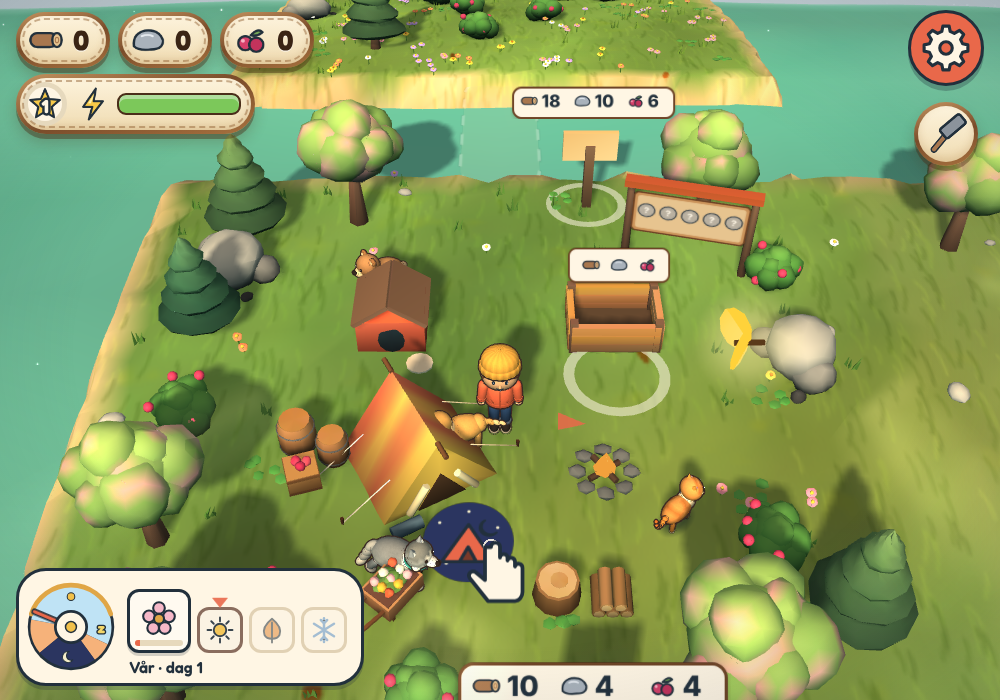
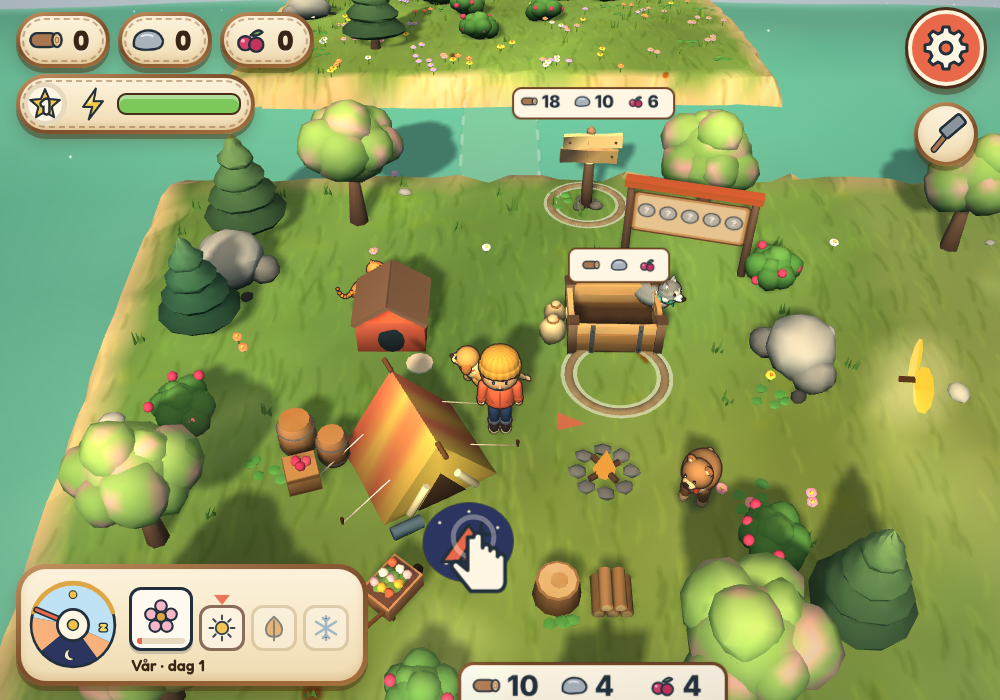
Pips Island: look pass 2 - hand-made signs, rope rings, plank crate, rope bridges, parchment dial
Signs get a round post with a rope wrap, foot stones and a two-plank
board; the pay rings are rope on a pale band; the storage crate has uneven
boards, iron straps, rope handles and sacks; bridges have worn planks,
capped posts and sagging rope rails; the season dial, toast and settings
sheet take the parchment and wood look.

Claude-Session: https://claude.ai/code/session_01K2EAan5PE4LTJZUySd4kfg

diff --git a/isle.html b/isle.html
@@ -2154,6 +2154,11 @@ function isleBubble(t) {
   isleIcon(x, t, 64, 62, 1.7);
   const tex = new T.CanvasTexture(c); isleBub[t] = tex; return tex;
 }
+/* a ring of rope lying on the grass, like the farm's, where Pip stands to pay or to use something */
+function ropeRing(r0, r1) {
+  const R = (r0 + r1) / 2, g = new T.TorusGeometry(R, 0.065, 6, 44); g.scale(1, 1, 0.5);
+  const m = new T.Mesh(fac(g, (cx, cy, cz, i) => tone(Math.floor((Math.atan2(cy, cx) + 3.15) * R * 9) % 2 ? '#fff0c8' : '#e0bf86', i, 0.2), 1490), MAT); m.receiveShadow = true; m.add(new T.Mesh(new T.RingGeometry(r0 - 0.04, r1 + 0.04, 28), ringMat)); return m; /* the pale band under the rope keeps it easy to see */
+}
 function isleSprite(tex, s) { const sp = new T.Sprite(new T.SpriteMaterial({ map: tex, transparent: true, depthWrite: false })); sp.scale.set(s, s, 1); return sp; }
 
 /* ---- things Pip carries: logs, stones and berries ---- */
@@ -2338,7 +2343,7 @@ function makeChest(x, z, tool, idx) {
   const lid = new T.Group(); lid.position.set(0, 0.42, -0.24); g.add(lid);
   q = new T.CylinderGeometry(0.24, 0.24, 0.7, 10, 1, false, 0, Math.PI); q.rotateZ(Math.PI / 2); q.translate(0, 0, 0.24); part(fac(q, (cx, cy, cz, i) => shadeY('#c99158', cy, 0, 0.25, i, 0.5), 1402), lid);
   const sp = isleSprite(isleBubble(tool), 0.9); sp.position.y = 1.5; sp.visible = false; g.add(sp);
-  const ring = new T.Mesh(new T.RingGeometry(0.62, 0.76, 28), ringMat); ring.rotation.x = -Math.PI / 2; ring.position.set(x, 0.035, z + 0.85); sc.add(ring);
+  const ring = ropeRing(0.62, 0.76); ring.rotation.x = -Math.PI / 2; ring.position.set(x, 0.035, z + 0.85); sc.add(ring);
   const c = { x, z, g, lid, sp, ring, tool, idx, open: 0, gone: 0, pop: 0.001 }; g.scale.setScalar(0.01); chests.push(c); return c;
 }
 function chestStep(c, dt) {
@@ -2360,8 +2365,22 @@ const ghostTex = (() => { const c = document.createElement('canvas'); c.width = 
   x.fillStyle = 'rgba(236,211,160,0.35)'; x.beginPath(); x.roundRect(8, 8, 112, 112, 16); x.fill(); x.setLineDash([12, 9]); x.lineWidth = 5; x.strokeStyle = 'rgba(255,246,228,0.95)'; x.stroke();
   return new T.CanvasTexture(c); })();
 const ghostGeo = (() => { const g = new T.PlaneGeometry(GS - 0.5, GS - 0.5, 8, 8); g.rotateX(-Math.PI / 2); return g; })();
-const POST_GEO = (() => { const q = new T.BoxGeometry(0.12, 1.0, 0.12); q.translate(0, 0.5, 0); return fac(q, PAL.trunk, 1500); })();
-const BOARD_GEO = (() => { const q = new T.BoxGeometry(0.7, 0.42, 0.08); q.translate(0, 0.98, 0); return fac(q, '#e7c48f', 1501); })();
+/* a hand-made sign: a round post with a rope wrap and stones at its foot, and a board of two planks nailed on a little crooked */
+const POST_GEO = (() => { const L = [];
+  let q = new T.CylinderGeometry(0.055, 0.075, 1.22, 8, 4); jit(q, 0.008, 1500); q.translate(0, 0.61, 0); L.push(q);
+  q = new T.ConeGeometry(0.06, 0.07, 8); q.translate(0, 1.255, 0); L.push(q);
+  [0.74, 0.79, 0.84].forEach((y) => { const r = new T.TorusGeometry(0.068, 0.016, 5, 10); r.rotateX(Math.PI / 2); r.translate(0, y, 0); L.push(r); });
+  [[0.13, 0.05, 0.085], [-0.1, 0.09, 0.07], [-0.04, -0.12, 0.075], [0.1, -0.08, 0.05]].forEach(([x, z, r], k) => { const b = ico(r, 1, 1503 + k, r * 0.1); b.scale(1.2, 0.7, 1); b.translate(x, r * 0.4, z); L.push(b); });
+  for (let k = 0; k < 4; k++) { const b = new T.ConeGeometry(0.022, 0.2, 3); b.translate(0, 0.1, 0); b.rotateZ((k - 1.5) * 0.3); b.rotateY(k * 1.7); b.translate(-0.15 + k * 0.02, 0, 0.12); L.push(b); }
+  return fac(mergeGeos(L), (cx, cy, cz, i) => { const d = Math.hypot(cx, cz);
+    if (cy < 0.2 && d > 0.085) return cy > 0.11 && cx < -0.08 && cz > 0.06 ? tone('#6fae4c', i, 0.4) : shadeY('#b3b9bf', cy, 0, 0.12, i, 0.4);
+    if (cy > 0.72 && cy < 0.86 && d > 0.06) return tone('#ead9b0', i, 0.3);
+    return shadeY(PAL.trunk, cy, 0, 1.3, i, 0.4); }, 1500); })();
+const BOARD_GEO = (() => { const L = [];
+  [[1.09, 0.02, 0.03], [0.87, -0.015, -0.04]].forEach(([y, x, rz], k) => { const q = new T.BoxGeometry(0.74, 0.2, 0.06, 4, 1, 1); jit(q, 0.008, 1501 + k); q.rotateZ(rz); q.translate(x, y, 0.07); L.push(q);
+    [-0.29, 0.29].forEach((nx) => { const n = new T.CylinderGeometry(0.018, 0.018, 0.02, 6); n.rotateX(Math.PI / 2); n.translate(x + nx, y, 0.105); L.push(n); }); });
+  const b = new T.BoxGeometry(0.07, 0.46, 0.035); b.translate(0, 0.98, 0.03); L.push(b);
+  return fac(mergeGeos(L), (cx, cy, cz, i) => cz > 0.1 ? new T.Color('#4a4038') : cz < 0.05 ? tone('#8a6a4a', i, 0.3) : shadeY(cy > 0.98 ? '#ecca94' : '#e0b87c', cy, 0.7, 1.25, i, 0.25), 1501); })();
 /* a sign's price: a home square costs by how many squares are bought; a bridge or a bonus piece has its own price */
 const signCost = (s) => s.cost;
 const costKinds = (s) => KINDS.filter((t) => signCost(s)[t] > 0);
@@ -2399,7 +2418,7 @@ function signMake(o) {
   g.scale.setScalar(1.3);
   const sp = isleSprite(null, 1); sp.position.y = 2.2; sp.material.opacity = 0; sp.visible = false; g.add(sp);
   const sm = isleSprite(null, 1); sm.position.y = 1.62; g.add(sm);
-  const ring = new T.Mesh(new T.RingGeometry(0.55, 0.7, 28), ringMat); ring.rotation.x = -Math.PI / 2; ring.position.set(o.x, 0.035, o.z); sc.add(ring);
+  const ring = ropeRing(0.55, 0.7); ring.rotation.x = -Math.PI / 2; ring.position.set(o.x, 0.035, o.z); sc.add(ring);
   const ghost = new T.Mesh(o.ghostGeo, new T.MeshBasicMaterial({ map: o.ghostTex, transparent: true, depthWrite: false })); ghost.position.set(o.gx, o.gy == null ? -0.3 : o.gy, o.gz); if (o.gr) ghost.rotation.y = o.gr; sc.add(ghost);
   const sg = Object.assign(o, { g, sp, sm, ring, ghost, fly: {}, bump: 0, seed: signs.length * 1.7, open: 0, payT: 0 }); signs.push(sg); return sg;
 }
@@ -2458,16 +2477,25 @@ function isleBuy(s) {
 
 /* ---- bridges: planks laid one by one from the shore to the next island; once built, its area is Pip's ---- */
 let building = null;
-const PLANK_GEO = (() => { const q = new T.BoxGeometry(1.7, 0.08, 0.38); return fac(q, (cx, cy, cz, i) => tone('#b98a5a', i, 0.7), 1800); })();
-const RAIL_GEO = (() => { const q = new T.BoxGeometry(0.08, 0.08, 1); return fac(q, '#8a6a4e', 1801); })();
-const BPOST_GEO = (() => { const q = new T.CylinderGeometry(0.09, 0.1, 1.5, 7); q.translate(0, -0.35, 0); return fac(q, PAL.trunk, 1802); })();
+/* the bridges: worn planks of three kinds, round posts with caps and a rope wrap, and rope rails that sag between them */
+const PLANK_GEOS = [0, 1, 2].map((k) => { const q = new T.BoxGeometry(1.66 + k * 0.04, 0.08, 0.36 + (k - 1) * 0.02, 6, 1, 1);
+  return fac(q, (cx, cy, cz, i) => { const c = tone(['#c0935f', '#b08454', '#c99f6c'][k], Math.round(cx * 9), 0.25); if (cy < 0) c.multiplyScalar(0.7); if (Math.abs(cx) > 0.74 && cy > 0 && hash(Math.round(cz * 30), k) > 0.5) c.multiplyScalar(0.8); return c; }, 1800 + k); });
+const PLANK_GEO = PLANK_GEOS[0];
+const RAIL_GEO = (() => { const L = []; for (let k = 0; k < 8; k++) { const t0 = k / 8, t1 = (k + 1) / 8, y0 = -0.16 * Math.sin(t0 * Math.PI), y1 = -0.16 * Math.sin(t1 * Math.PI), len = Math.hypot(0.125, y1 - y0);
+    const q = new T.CylinderGeometry(0.024, 0.024, len + 0.012, 5); q.rotateX(Math.PI / 2 - Math.atan2(y1 - y0, 0.125)); q.translate(0, (y0 + y1) / 2, (t0 + t1) / 2); L.push(q); }
+  return fac(mergeGeos(L), (cx, cy, cz, i) => tone(Math.floor(cz * 40) % 2 ? '#ead9b0' : '#cdb07e', i, 0.2), 1801); })(); /* one sagging span of rope, 1 long: scaled per gap */
+const BPOST_GEO = (() => { const L = []; let q = new T.CylinderGeometry(0.075, 0.095, 1.5, 8, 3); jit(q, 0.008, 1802); q.translate(0, -0.35, 0); L.push(q);
+  q = new T.SphereGeometry(0.095, 8, 6); q.scale(1, 0.75, 1); q.translate(0, 0.42, 0); L.push(q);
+  [0.2, 0.25].forEach((y) => { const r = new T.TorusGeometry(0.09, 0.018, 5, 10); r.rotateX(Math.PI / 2); r.translate(0, y, 0); L.push(r); });
+  return fac(mergeGeos(L), (cx, cy, cz, i) => cy > 0.17 && cy < 0.28 && Math.hypot(cx, cz) > 0.08 ? tone('#ead9b0', i, 0.3) : shadeY(PAL.trunk, cy, -1.1, 0.5, i, 0.4), 1802); })();
 function bridgeMesh(A) {
   const B = A.bridge, L = Math.hypot(B.x1 - B.x0, B.z1 - B.z0), ux = (B.x1 - B.x0) / L, uz = (B.z1 - B.z0) / L, g = new T.Group(); g.position.set(B.x0, 0, B.z0); g.rotation.y = Math.atan2(ux, uz); sc.add(g);
   const n = Math.ceil(L / 0.42), planks = [];
-  for (let k = 0; k < n; k++) { const m = new T.Mesh(PLANK_GEO, MAT); m.position.set((hash(k, 3) - 0.5) * 0.06, 0.04, 0.21 + k * 0.42); m.rotation.y = (hash(k, 4) - 0.5) * 0.05; m.receiveShadow = true; m.castShadow = true; g.add(m); planks.push(m); }
+  for (let k = 0; k < n; k++) { const m = new T.Mesh(PLANK_GEOS[Math.floor(hash(k, 7) * 3)], MAT); m.position.set((hash(k, 3) - 0.5) * 0.06, 0.04, 0.21 + k * 0.42); m.rotation.y = (hash(k, 4) - 0.5) * 0.05; m.receiveShadow = true; m.castShadow = true; g.add(m); planks.push(m); }
   const rails = new T.Group(); g.add(rails);
-  for (let k = 0; k <= Math.floor(L / 1.6); k++) { const z = Math.min(L - 0.2, 0.2 + k * 1.6); [-0.85, 0.85].forEach((x) => { const p = new T.Mesh(BPOST_GEO, MAT); p.position.set(x, 0.59, z); p.castShadow = true; rails.add(p); }); }
-  [-0.85, 0.85].forEach((x) => { const r = new T.Mesh(RAIL_GEO, MAT); r.scale.z = L; r.position.set(x, 0.74, L / 2); rails.add(r); });
+  const zs = []; for (let k = 0; k <= Math.floor(L / 1.6); k++) zs.push(Math.min(L - 0.2, 0.2 + k * 1.6));
+  zs.forEach((z) => [-0.85, 0.85].forEach((x) => { const p = new T.Mesh(BPOST_GEO, MAT); p.position.set(x, 0.59, z); p.castShadow = true; rails.add(p); }));
+  for (let k = 0; k + 1 < zs.length; k++) if (zs[k + 1] - zs[k] > 0.2) [-0.85, 0.85].forEach((x) => { const r = new T.Mesh(RAIL_GEO, MAT); r.scale.z = zs[k + 1] - zs[k]; r.position.set(x, 0.82, zs[k]); rails.add(r); });
   return { g, planks, rails };
 }
 function bridgeBuild(A, now) {
@@ -2620,9 +2648,18 @@ const STORE = { x: 1.7, z: -1.5 };
 const storeN = (t) => (state.isle && state.isle.store ? state.isle.store[t] || 0 : 0);
 const storeG = (() => {
   const g = new T.Group(); g.position.set(STORE.x, 0, STORE.z); sc.add(g); const L = [];
-  let q = new T.BoxGeometry(1.3, 0.12, 0.9); q.translate(0, 0.06, 0); L.push(fac(q, '#8a6a4e', 1600));
-  [[0, 0.45, 1.3, 0.1], [0, -0.45, 1.3, 0.1], [0.65, 0, 0.1, 0.9], [-0.65, 0, 0.1, 0.9]].forEach(([x, z, w, d], k) => { for (let r = 0; r < 3; r++) { q = new T.BoxGeometry(w, 0.15, d); q.translate(x, 0.14 + r * 0.17, z); L.push(fac(q, tone('#c99158', k * 3 + r, 0.8), 1601 + k * 3 + r)); } });
-  [[-0.62, -0.42], [0.62, -0.42], [-0.62, 0.42], [0.62, 0.42]].forEach(([x, z], k) => { q = new T.BoxGeometry(0.12, 0.62, 0.12); q.translate(x, 0.31, z); L.push(fac(q, '#7d5e4e', 1620 + k)); });
+  /* a sturdy plank crate: uneven boards with gaps, corner posts with caps, iron straps, rope handles, and two sacks leaning on it */
+  let q = new T.BoxGeometry(1.3, 0.12, 0.9); q.translate(0, 0.06, 0); L.push(fac(q, '#6f5038', 1600));
+  [[0, 0.45, 1.3, 0.08, 0], [0, -0.45, 1.3, 0.08, 0], [0.65, 0, 0.9, 0.08, 1], [-0.65, 0, 0.9, 0.08, 1]].forEach(([x, z, w, d, side], k) => { for (let r = 0; r < 3; r++) {
+    q = new T.BoxGeometry(w - 0.02, 0.15, d, 5, 1, 1); jit(q, 0.008, 1601 + k * 3 + r); if (side) q.rotateY(Math.PI / 2); q.rotateZ((hash(k, r) - 0.5) * 0.03); q.translate(x, 0.15 + r * 0.175, z);
+    const base = ['#cf9a60', '#c08a52', '#d6a56c'][(k + r) % 3]; L.push(fac(q, (cx, cy, cz, i) => shadeY(base, cy, 0, 0.62, Math.round((side ? cz : cx) * 7) + r, 0.3), 1601 + k * 3 + r)); } });
+  [[-0.64, -0.44], [0.64, -0.44], [-0.64, 0.44], [0.64, 0.44]].forEach(([x, z], k) => { q = new T.BoxGeometry(0.13, 0.66, 0.13, 1, 3, 1); jit(q, 0.006, 1620 + k); q.translate(x, 0.33, z); L.push(fac(q, (cx, cy, cz, i) => shadeY('#7d5e4e', cy, 0, 0.7, i, 0.35), 1620 + k));
+    q = new T.BoxGeometry(0.17, 0.04, 0.17); q.translate(x, 0.675, z); L.push(fac(q, '#5a4336', 1624 + k)); });
+  [-0.35, 0.35].forEach((x, k) => { q = new T.BoxGeometry(0.07, 0.56, 0.02); q.translate(x, 0.33, 0.495); L.push(fac(q, '#555c66', 1630 + k)); [0.12, 0.5].forEach((y, j) => { const n = new T.SphereGeometry(0.018, 6, 4); n.translate(x, y, 0.51); L.push(fac(n, '#2f343b', 1632 + k * 2 + j)); }); });
+  [-1, 1].forEach((s2, k) => { q = new T.TorusGeometry(0.1, 0.018, 5, 10, Math.PI); q.rotateZ(Math.PI); q.rotateY(Math.PI / 2); q.translate(s2 * 0.7, 0.44, 0); L.push(fac(q, '#ead9b0', 1640 + k)); });
+  [[-0.92, 0.2, 0.2], [-0.86, -0.2, 0.17]].forEach(([x, z, r], k) => { q = ico(r, 2, 1650 + k, 0.012); q.scale(1, 1.25, 0.9); q.translate(x, r * 1.1, z); L.push(fac(q, (cx, cy, cz, i) => shadeY(k ? '#d9c39a' : '#e3d0a8', cy, 0, 0.5, i, 0.2), 1650 + k));
+    q = new T.TorusGeometry(r * 0.42, 0.016, 5, 10); q.rotateX(Math.PI / 2); q.translate(x, r * 2.2, z); L.push(fac(q, '#a8743f', 1654 + k)); q = ico(r * 0.4, 1, 1656 + k); q.scale(1, 0.7, 1); q.translate(x, r * 2.35, z); L.push(fac(q, '#d9c39a', 1656 + k)); });
+  L.forEach((g2, k) => { if (g2.index) L[k] = g2.toNonIndexed(); });
   merged(L, MAT, g);
   /* what is inside: a few logs, stones and berries show once there are some */
   const fill = { log: [], stone: [], berry: [] };
@@ -2632,7 +2669,7 @@ const storeG = (() => {
   const c = document.createElement('canvas'); c.width = 256; c.height = 96; const x = c.getContext('2d'); paperBox(x, 256, 96);
   ['log', 'stone', 'berry'].forEach((t, k) => isleIcon(x, t, 60 + k * 68, 46, 1.0));
   const sp = isleSprite(new T.CanvasTexture(c), 1); sp.scale.set(1.5, 0.56, 1); sp.position.set(0, 1.35, 0); g.add(sp);
-  const ring = new T.Mesh(new T.RingGeometry(0.62, 0.78, 28), ringMat); ring.rotation.x = -Math.PI / 2; ring.position.set(STORE.x, 0.035, STORE.z + 0.95); sc.add(ring);
+  const ring = ropeRing(0.62, 0.78); ring.rotation.x = -Math.PI / 2; ring.position.set(STORE.x, 0.035, STORE.z + 0.95); sc.add(ring);
   return { g, fill, sp };
 })();
 let storeT = 0;
@@ -5981,7 +6018,7 @@ function forgeBuild(anim) {
   const bed = new T.Mesh(new T.BoxGeometry(0.62, 0.05, 0.5), new T.MeshBasicMaterial({ color: '#ff7a2a' })); bed.position.set(0.25, 0.92, 0.08); g.add(bed);
   forgeGlow = new T.Sprite(new T.SpriteMaterial({ map: softTex(32, 32), color: '#ffb060', transparent: true, opacity: 0.5, depthWrite: false })); forgeGlow.position.set(0.22, 0.75, 0.7); forgeGlow.scale.set(1.5, 1.2, 1); g.add(forgeGlow);
   forgeG = g;
-  anvilRing = new T.Mesh(new T.RingGeometry(0.45, 0.6, 28), ringMat); anvilRing.rotation.x = -Math.PI / 2; anvilRing.position.set(ANVIL_RING.x, 0.035, ANVIL_RING.z); sc.add(anvilRing);
+  anvilRing = ropeRing(0.45, 0.6); anvilRing.rotation.x = -Math.PI / 2; anvilRing.position.set(ANVIL_RING.x, 0.035, ANVIL_RING.z); sc.add(anvilRing);
   if (anim) { g.scale.setScalar(0.01); bldPop = { g, t: 0 }; burst(FORGE.x, 1.2, FORGE.z, 12); burst(ANVIL.x, 0.9, ANVIL.z, 6); }
 }
 
@@ -6156,7 +6193,7 @@ function ovenBuild(anim) {
   /* finished pies wait on the front of the base and on the shelf (up to five shown) */
   [[-0.32, 0.51, 0.42], [0.32, 0.51, 0.42], [-1.08, 0.64, 0.15], [-0.84, 0.64, 0.15], [0.0, 0.51, 0.47]].forEach(([x, y, z]) => { const m = new T.Mesh(PIE_GEO, MAT); m.position.set(x, y, z); m.visible = false; g.add(m); ovenPies.push(m); });
   ovenG = g;
-  ovenRing = new T.Mesh(new T.RingGeometry(0.45, 0.6, 28), ringMat); ovenRing.rotation.x = -Math.PI / 2; ovenRing.position.set(OVEN_RING.x, 0.035, OVEN_RING.z); sc.add(ovenRing);
+  ovenRing = ropeRing(0.45, 0.6); ovenRing.rotation.x = -Math.PI / 2; ovenRing.position.set(OVEN_RING.x, 0.035, OVEN_RING.z); sc.add(ovenRing);
   if (anim) { g.scale.setScalar(0.01); bldPop = { g, t: 0 }; burst(OVEN.x, 1.2, OVEN.z, 12); }
 }
 
@@ -6745,6 +6782,16 @@ const LOOK = { solid: [] };
 function lookStep() {
   if (enSleep) return; const p = pip.position;
   LOOK.solid.forEach(([x, z, r]) => { const dx = p.x - x, dz = p.z - z, d = Math.hypot(dx, dz), R = r + 0.22; if (d < R && d > 1e-4) { p.x = x + dx / d * R; p.z = z + dz / d * R; } });
+}
+/* the season dial, the toast and the settings sheet in the same parchment and wood as the counters */
+{
+  const WOOD = 'linear-gradient(165deg,#c4935f,#7a4c2a 50%,#a8723f) border-box', st = document.createElement('style');
+  st.textContent = '.clock{border:5px solid transparent!important;background:linear-gradient(#fdf3dc,#f0dcb2) padding-box,' + WOOD + '!important;box-shadow:0 5px 0 rgba(70,40,18,.4),0 9px 14px rgba(70,40,18,.22),inset 0 -4px 8px rgba(160,110,50,.22)!important;color:#3a2414}'
+    + '.toast{border:5px solid transparent!important;background:linear-gradient(#fdf3dc,#f0dcb2) padding-box,' + WOOD + '!important;box-shadow:0 6px 0 rgba(70,40,18,.4),0 12px 18px rgba(70,40,18,.25)!important;color:#3a2414}'
+    + '.sheet{border:6px solid transparent!important;border-bottom:0!important;background:linear-gradient(#fdf3dc,#f3e2bf) padding-box,linear-gradient(165deg,#c4935f,#6e4426 55%,#a8723f) border-box!important}'
+    + '.menuBtn{border:4px solid #fff3dc!important;box-shadow:0 0 0 3px #4a2e1a,0 6px 0 3px rgba(60,34,16,.4),0 10px 14px rgba(60,34,16,.22)!important}'
+    + '.xpUp>div,.xpCard{border-color:#6e4426}';
+  document.head.appendChild(st);
 }
 
 /* ---------- camera and input ---------- */

diff --git a/src/isle/isle.js b/src/isle/isle.js
@@ -72,6 +72,11 @@ function isleBubble(t) {
   isleIcon(x, t, 64, 62, 1.7);
   const tex = new T.CanvasTexture(c); isleBub[t] = tex; return tex;
 }
+/* a ring of rope lying on the grass, like the farm's, where Pip stands to pay or to use something */
+function ropeRing(r0, r1) {
+  const R = (r0 + r1) / 2, g = new T.TorusGeometry(R, 0.065, 6, 44); g.scale(1, 1, 0.5);
+  const m = new T.Mesh(fac(g, (cx, cy, cz, i) => tone(Math.floor((Math.atan2(cy, cx) + 3.15) * R * 9) % 2 ? '#fff0c8' : '#e0bf86', i, 0.2), 1490), MAT); m.receiveShadow = true; m.add(new T.Mesh(new T.RingGeometry(r0 - 0.04, r1 + 0.04, 28), ringMat)); return m; /* the pale band under the rope keeps it easy to see */
+}
 function isleSprite(tex, s) { const sp = new T.Sprite(new T.SpriteMaterial({ map: tex, transparent: true, depthWrite: false })); sp.scale.set(s, s, 1); return sp; }
 
 /* ---- things Pip carries: logs, stones and berries ---- */
@@ -256,7 +261,7 @@ function makeChest(x, z, tool, idx) {
   const lid = new T.Group(); lid.position.set(0, 0.42, -0.24); g.add(lid);
   q = new T.CylinderGeometry(0.24, 0.24, 0.7, 10, 1, false, 0, Math.PI); q.rotateZ(Math.PI / 2); q.translate(0, 0, 0.24); part(fac(q, (cx, cy, cz, i) => shadeY('#c99158', cy, 0, 0.25, i, 0.5), 1402), lid);
   const sp = isleSprite(isleBubble(tool), 0.9); sp.position.y = 1.5; sp.visible = false; g.add(sp);
-  const ring = new T.Mesh(new T.RingGeometry(0.62, 0.76, 28), ringMat); ring.rotation.x = -Math.PI / 2; ring.position.set(x, 0.035, z + 0.85); sc.add(ring);
+  const ring = ropeRing(0.62, 0.76); ring.rotation.x = -Math.PI / 2; ring.position.set(x, 0.035, z + 0.85); sc.add(ring);
   const c = { x, z, g, lid, sp, ring, tool, idx, open: 0, gone: 0, pop: 0.001 }; g.scale.setScalar(0.01); chests.push(c); return c;
 }
 function chestStep(c, dt) {
@@ -278,8 +283,22 @@ const ghostTex = (() => { const c = document.createElement('canvas'); c.width = 
   x.fillStyle = 'rgba(236,211,160,0.35)'; x.beginPath(); x.roundRect(8, 8, 112, 112, 16); x.fill(); x.setLineDash([12, 9]); x.lineWidth = 5; x.strokeStyle = 'rgba(255,246,228,0.95)'; x.stroke();
   return new T.CanvasTexture(c); })();
 const ghostGeo = (() => { const g = new T.PlaneGeometry(GS - 0.5, GS - 0.5, 8, 8); g.rotateX(-Math.PI / 2); return g; })();
-const POST_GEO = (() => { const q = new T.BoxGeometry(0.12, 1.0, 0.12); q.translate(0, 0.5, 0); return fac(q, PAL.trunk, 1500); })();
-const BOARD_GEO = (() => { const q = new T.BoxGeometry(0.7, 0.42, 0.08); q.translate(0, 0.98, 0); return fac(q, '#e7c48f', 1501); })();
+/* a hand-made sign: a round post with a rope wrap and stones at its foot, and a board of two planks nailed on a little crooked */
+const POST_GEO = (() => { const L = [];
+  let q = new T.CylinderGeometry(0.055, 0.075, 1.22, 8, 4); jit(q, 0.008, 1500); q.translate(0, 0.61, 0); L.push(q);
+  q = new T.ConeGeometry(0.06, 0.07, 8); q.translate(0, 1.255, 0); L.push(q);
+  [0.74, 0.79, 0.84].forEach((y) => { const r = new T.TorusGeometry(0.068, 0.016, 5, 10); r.rotateX(Math.PI / 2); r.translate(0, y, 0); L.push(r); });
+  [[0.13, 0.05, 0.085], [-0.1, 0.09, 0.07], [-0.04, -0.12, 0.075], [0.1, -0.08, 0.05]].forEach(([x, z, r], k) => { const b = ico(r, 1, 1503 + k, r * 0.1); b.scale(1.2, 0.7, 1); b.translate(x, r * 0.4, z); L.push(b); });
+  for (let k = 0; k < 4; k++) { const b = new T.ConeGeometry(0.022, 0.2, 3); b.translate(0, 0.1, 0); b.rotateZ((k - 1.5) * 0.3); b.rotateY(k * 1.7); b.translate(-0.15 + k * 0.02, 0, 0.12); L.push(b); }
+  return fac(mergeGeos(L), (cx, cy, cz, i) => { const d = Math.hypot(cx, cz);
+    if (cy < 0.2 && d > 0.085) return cy > 0.11 && cx < -0.08 && cz > 0.06 ? tone('#6fae4c', i, 0.4) : shadeY('#b3b9bf', cy, 0, 0.12, i, 0.4);
+    if (cy > 0.72 && cy < 0.86 && d > 0.06) return tone('#ead9b0', i, 0.3);
+    return shadeY(PAL.trunk, cy, 0, 1.3, i, 0.4); }, 1500); })();
+const BOARD_GEO = (() => { const L = [];
+  [[1.09, 0.02, 0.03], [0.87, -0.015, -0.04]].forEach(([y, x, rz], k) => { const q = new T.BoxGeometry(0.74, 0.2, 0.06, 4, 1, 1); jit(q, 0.008, 1501 + k); q.rotateZ(rz); q.translate(x, y, 0.07); L.push(q);
+    [-0.29, 0.29].forEach((nx) => { const n = new T.CylinderGeometry(0.018, 0.018, 0.02, 6); n.rotateX(Math.PI / 2); n.translate(x + nx, y, 0.105); L.push(n); }); });
+  const b = new T.BoxGeometry(0.07, 0.46, 0.035); b.translate(0, 0.98, 0.03); L.push(b);
+  return fac(mergeGeos(L), (cx, cy, cz, i) => cz > 0.1 ? new T.Color('#4a4038') : cz < 0.05 ? tone('#8a6a4a', i, 0.3) : shadeY(cy > 0.98 ? '#ecca94' : '#e0b87c', cy, 0.7, 1.25, i, 0.25), 1501); })();
 /* a sign's price: a home square costs by how many squares are bought; a bridge or a bonus piece has its own price */
 const signCost = (s) => s.cost;
 const costKinds = (s) => KINDS.filter((t) => signCost(s)[t] > 0);
@@ -317,7 +336,7 @@ function signMake(o) {
   g.scale.setScalar(1.3);
   const sp = isleSprite(null, 1); sp.position.y = 2.2; sp.material.opacity = 0; sp.visible = false; g.add(sp);
   const sm = isleSprite(null, 1); sm.position.y = 1.62; g.add(sm);
-  const ring = new T.Mesh(new T.RingGeometry(0.55, 0.7, 28), ringMat); ring.rotation.x = -Math.PI / 2; ring.position.set(o.x, 0.035, o.z); sc.add(ring);
+  const ring = ropeRing(0.55, 0.7); ring.rotation.x = -Math.PI / 2; ring.position.set(o.x, 0.035, o.z); sc.add(ring);
   const ghost = new T.Mesh(o.ghostGeo, new T.MeshBasicMaterial({ map: o.ghostTex, transparent: true, depthWrite: false })); ghost.position.set(o.gx, o.gy == null ? -0.3 : o.gy, o.gz); if (o.gr) ghost.rotation.y = o.gr; sc.add(ghost);
   const sg = Object.assign(o, { g, sp, sm, ring, ghost, fly: {}, bump: 0, seed: signs.length * 1.7, open: 0, payT: 0 }); signs.push(sg); return sg;
 }
@@ -376,16 +395,25 @@ function isleBuy(s) {
 
 /* ---- bridges: planks laid one by one from the shore to the next island; once built, its area is Pip's ---- */
 let building = null;
-const PLANK_GEO = (() => { const q = new T.BoxGeometry(1.7, 0.08, 0.38); return fac(q, (cx, cy, cz, i) => tone('#b98a5a', i, 0.7), 1800); })();
-const RAIL_GEO = (() => { const q = new T.BoxGeometry(0.08, 0.08, 1); return fac(q, '#8a6a4e', 1801); })();
-const BPOST_GEO = (() => { const q = new T.CylinderGeometry(0.09, 0.1, 1.5, 7); q.translate(0, -0.35, 0); return fac(q, PAL.trunk, 1802); })();
+/* the bridges: worn planks of three kinds, round posts with caps and a rope wrap, and rope rails that sag between them */
+const PLANK_GEOS = [0, 1, 2].map((k) => { const q = new T.BoxGeometry(1.66 + k * 0.04, 0.08, 0.36 + (k - 1) * 0.02, 6, 1, 1);
+  return fac(q, (cx, cy, cz, i) => { const c = tone(['#c0935f', '#b08454', '#c99f6c'][k], Math.round(cx * 9), 0.25); if (cy < 0) c.multiplyScalar(0.7); if (Math.abs(cx) > 0.74 && cy > 0 && hash(Math.round(cz * 30), k) > 0.5) c.multiplyScalar(0.8); return c; }, 1800 + k); });
+const PLANK_GEO = PLANK_GEOS[0];
+const RAIL_GEO = (() => { const L = []; for (let k = 0; k < 8; k++) { const t0 = k / 8, t1 = (k + 1) / 8, y0 = -0.16 * Math.sin(t0 * Math.PI), y1 = -0.16 * Math.sin(t1 * Math.PI), len = Math.hypot(0.125, y1 - y0);
+    const q = new T.CylinderGeometry(0.024, 0.024, len + 0.012, 5); q.rotateX(Math.PI / 2 - Math.atan2(y1 - y0, 0.125)); q.translate(0, (y0 + y1) / 2, (t0 + t1) / 2); L.push(q); }
+  return fac(mergeGeos(L), (cx, cy, cz, i) => tone(Math.floor(cz * 40) % 2 ? '#ead9b0' : '#cdb07e', i, 0.2), 1801); })(); /* one sagging span of rope, 1 long: scaled per gap */
+const BPOST_GEO = (() => { const L = []; let q = new T.CylinderGeometry(0.075, 0.095, 1.5, 8, 3); jit(q, 0.008, 1802); q.translate(0, -0.35, 0); L.push(q);
+  q = new T.SphereGeometry(0.095, 8, 6); q.scale(1, 0.75, 1); q.translate(0, 0.42, 0); L.push(q);
+  [0.2, 0.25].forEach((y) => { const r = new T.TorusGeometry(0.09, 0.018, 5, 10); r.rotateX(Math.PI / 2); r.translate(0, y, 0); L.push(r); });
+  return fac(mergeGeos(L), (cx, cy, cz, i) => cy > 0.17 && cy < 0.28 && Math.hypot(cx, cz) > 0.08 ? tone('#ead9b0', i, 0.3) : shadeY(PAL.trunk, cy, -1.1, 0.5, i, 0.4), 1802); })();
 function bridgeMesh(A) {
   const B = A.bridge, L = Math.hypot(B.x1 - B.x0, B.z1 - B.z0), ux = (B.x1 - B.x0) / L, uz = (B.z1 - B.z0) / L, g = new T.Group(); g.position.set(B.x0, 0, B.z0); g.rotation.y = Math.atan2(ux, uz); sc.add(g);
   const n = Math.ceil(L / 0.42), planks = [];
-  for (let k = 0; k < n; k++) { const m = new T.Mesh(PLANK_GEO, MAT); m.position.set((hash(k, 3) - 0.5) * 0.06, 0.04, 0.21 + k * 0.42); m.rotation.y = (hash(k, 4) - 0.5) * 0.05; m.receiveShadow = true; m.castShadow = true; g.add(m); planks.push(m); }
+  for (let k = 0; k < n; k++) { const m = new T.Mesh(PLANK_GEOS[Math.floor(hash(k, 7) * 3)], MAT); m.position.set((hash(k, 3) - 0.5) * 0.06, 0.04, 0.21 + k * 0.42); m.rotation.y = (hash(k, 4) - 0.5) * 0.05; m.receiveShadow = true; m.castShadow = true; g.add(m); planks.push(m); }
   const rails = new T.Group(); g.add(rails);
-  for (let k = 0; k <= Math.floor(L / 1.6); k++) { const z = Math.min(L - 0.2, 0.2 + k * 1.6); [-0.85, 0.85].forEach((x) => { const p = new T.Mesh(BPOST_GEO, MAT); p.position.set(x, 0.59, z); p.castShadow = true; rails.add(p); }); }
-  [-0.85, 0.85].forEach((x) => { const r = new T.Mesh(RAIL_GEO, MAT); r.scale.z = L; r.position.set(x, 0.74, L / 2); rails.add(r); });
+  const zs = []; for (let k = 0; k <= Math.floor(L / 1.6); k++) zs.push(Math.min(L - 0.2, 0.2 + k * 1.6));
+  zs.forEach((z) => [-0.85, 0.85].forEach((x) => { const p = new T.Mesh(BPOST_GEO, MAT); p.position.set(x, 0.59, z); p.castShadow = true; rails.add(p); }));
+  for (let k = 0; k + 1 < zs.length; k++) if (zs[k + 1] - zs[k] > 0.2) [-0.85, 0.85].forEach((x) => { const r = new T.Mesh(RAIL_GEO, MAT); r.scale.z = zs[k + 1] - zs[k]; r.position.set(x, 0.82, zs[k]); rails.add(r); });
   return { g, planks, rails };
 }
 function bridgeBuild(A, now) {
@@ -538,9 +566,18 @@ const STORE = { x: 1.7, z: -1.5 };
 const storeN = (t) => (state.isle && state.isle.store ? state.isle.store[t] || 0 : 0);
 const storeG = (() => {
   const g = new T.Group(); g.position.set(STORE.x, 0, STORE.z); sc.add(g); const L = [];
-  let q = new T.BoxGeometry(1.3, 0.12, 0.9); q.translate(0, 0.06, 0); L.push(fac(q, '#8a6a4e', 1600));
-  [[0, 0.45, 1.3, 0.1], [0, -0.45, 1.3, 0.1], [0.65, 0, 0.1, 0.9], [-0.65, 0, 0.1, 0.9]].forEach(([x, z, w, d], k) => { for (let r = 0; r < 3; r++) { q = new T.BoxGeometry(w, 0.15, d); q.translate(x, 0.14 + r * 0.17, z); L.push(fac(q, tone('#c99158', k * 3 + r, 0.8), 1601 + k * 3 + r)); } });
-  [[-0.62, -0.42], [0.62, -0.42], [-0.62, 0.42], [0.62, 0.42]].forEach(([x, z], k) => { q = new T.BoxGeometry(0.12, 0.62, 0.12); q.translate(x, 0.31, z); L.push(fac(q, '#7d5e4e', 1620 + k)); });
+  /* a sturdy plank crate: uneven boards with gaps, corner posts with caps, iron straps, rope handles, and two sacks leaning on it */
+  let q = new T.BoxGeometry(1.3, 0.12, 0.9); q.translate(0, 0.06, 0); L.push(fac(q, '#6f5038', 1600));
+  [[0, 0.45, 1.3, 0.08, 0], [0, -0.45, 1.3, 0.08, 0], [0.65, 0, 0.9, 0.08, 1], [-0.65, 0, 0.9, 0.08, 1]].forEach(([x, z, w, d, side], k) => { for (let r = 0; r < 3; r++) {
+    q = new T.BoxGeometry(w - 0.02, 0.15, d, 5, 1, 1); jit(q, 0.008, 1601 + k * 3 + r); if (side) q.rotateY(Math.PI / 2); q.rotateZ((hash(k, r) - 0.5) * 0.03); q.translate(x, 0.15 + r * 0.175, z);
+    const base = ['#cf9a60', '#c08a52', '#d6a56c'][(k + r) % 3]; L.push(fac(q, (cx, cy, cz, i) => shadeY(base, cy, 0, 0.62, Math.round((side ? cz : cx) * 7) + r, 0.3), 1601 + k * 3 + r)); } });
+  [[-0.64, -0.44], [0.64, -0.44], [-0.64, 0.44], [0.64, 0.44]].forEach(([x, z], k) => { q = new T.BoxGeometry(0.13, 0.66, 0.13, 1, 3, 1); jit(q, 0.006, 1620 + k); q.translate(x, 0.33, z); L.push(fac(q, (cx, cy, cz, i) => shadeY('#7d5e4e', cy, 0, 0.7, i, 0.35), 1620 + k));
+    q = new T.BoxGeometry(0.17, 0.04, 0.17); q.translate(x, 0.675, z); L.push(fac(q, '#5a4336', 1624 + k)); });
+  [-0.35, 0.35].forEach((x, k) => { q = new T.BoxGeometry(0.07, 0.56, 0.02); q.translate(x, 0.33, 0.495); L.push(fac(q, '#555c66', 1630 + k)); [0.12, 0.5].forEach((y, j) => { const n = new T.SphereGeometry(0.018, 6, 4); n.translate(x, y, 0.51); L.push(fac(n, '#2f343b', 1632 + k * 2 + j)); }); });
+  [-1, 1].forEach((s2, k) => { q = new T.TorusGeometry(0.1, 0.018, 5, 10, Math.PI); q.rotateZ(Math.PI); q.rotateY(Math.PI / 2); q.translate(s2 * 0.7, 0.44, 0); L.push(fac(q, '#ead9b0', 1640 + k)); });
+  [[-0.92, 0.2, 0.2], [-0.86, -0.2, 0.17]].forEach(([x, z, r], k) => { q = ico(r, 2, 1650 + k, 0.012); q.scale(1, 1.25, 0.9); q.translate(x, r * 1.1, z); L.push(fac(q, (cx, cy, cz, i) => shadeY(k ? '#d9c39a' : '#e3d0a8', cy, 0, 0.5, i, 0.2), 1650 + k));
+    q = new T.TorusGeometry(r * 0.42, 0.016, 5, 10); q.rotateX(Math.PI / 2); q.translate(x, r * 2.2, z); L.push(fac(q, '#a8743f', 1654 + k)); q = ico(r * 0.4, 1, 1656 + k); q.scale(1, 0.7, 1); q.translate(x, r * 2.35, z); L.push(fac(q, '#d9c39a', 1656 + k)); });
+  L.forEach((g2, k) => { if (g2.index) L[k] = g2.toNonIndexed(); });
   merged(L, MAT, g);
   /* what is inside: a few logs, stones and berries show once there are some */
   const fill = { log: [], stone: [], berry: [] };
@@ -550,7 +587,7 @@ const storeG = (() => {
   const c = document.createElement('canvas'); c.width = 256; c.height = 96; const x = c.getContext('2d'); paperBox(x, 256, 96);
   ['log', 'stone', 'berry'].forEach((t, k) => isleIcon(x, t, 60 + k * 68, 46, 1.0));
   const sp = isleSprite(new T.CanvasTexture(c), 1); sp.scale.set(1.5, 0.56, 1); sp.position.set(0, 1.35, 0); g.add(sp);
-  const ring = new T.Mesh(new T.RingGeometry(0.62, 0.78, 28), ringMat); ring.rotation.x = -Math.PI / 2; ring.position.set(STORE.x, 0.035, STORE.z + 0.95); sc.add(ring);
+  const ring = ropeRing(0.62, 0.78); ring.rotation.x = -Math.PI / 2; ring.position.set(STORE.x, 0.035, STORE.z + 0.95); sc.add(ring);
   return { g, fill, sp };
 })();
 let storeT = 0;

diff --git a/src/isle/look.js b/src/isle/look.js
@@ -37,3 +37,13 @@ function lookStep() {
   if (enSleep) return; const p = pip.position;
   LOOK.solid.forEach(([x, z, r]) => { const dx = p.x - x, dz = p.z - z, d = Math.hypot(dx, dz), R = r + 0.22; if (d < R && d > 1e-4) { p.x = x + dx / d * R; p.z = z + dz / d * R; } });
 }
+/* the season dial, the toast and the settings sheet in the same parchment and wood as the counters */
+{
+  const WOOD = 'linear-gradient(165deg,#c4935f,#7a4c2a 50%,#a8723f) border-box', st = document.createElement('style');
+  st.textContent = '.clock{border:5px solid transparent!important;background:linear-gradient(#fdf3dc,#f0dcb2) padding-box,' + WOOD + '!important;box-shadow:0 5px 0 rgba(70,40,18,.4),0 9px 14px rgba(70,40,18,.22),inset 0 -4px 8px rgba(160,110,50,.22)!important;color:#3a2414}'
+    + '.toast{border:5px solid transparent!important;background:linear-gradient(#fdf3dc,#f0dcb2) padding-box,' + WOOD + '!important;box-shadow:0 6px 0 rgba(70,40,18,.4),0 12px 18px rgba(70,40,18,.25)!important;color:#3a2414}'
+    + '.sheet{border:6px solid transparent!important;border-bottom:0!important;background:linear-gradient(#fdf3dc,#f3e2bf) padding-box,linear-gradient(165deg,#c4935f,#6e4426 55%,#a8723f) border-box!important}'
+    + '.menuBtn{border:4px solid #fff3dc!important;box-shadow:0 0 0 3px #4a2e1a,0 6px 0 3px rgba(60,34,16,.4),0 10px 14px rgba(60,34,16,.22)!important}'
+    + '.xpUp>div,.xpCard{border-color:#6e4426}';
+  document.head.appendChild(st);
+}

diff --git a/src/isle/people.js b/src/isle/people.js
@@ -76,7 +76,7 @@ function forgeBuild(anim) {
   const bed = new T.Mesh(new T.BoxGeometry(0.62, 0.05, 0.5), new T.MeshBasicMaterial({ color: '#ff7a2a' })); bed.position.set(0.25, 0.92, 0.08); g.add(bed);
   forgeGlow = new T.Sprite(new T.SpriteMaterial({ map: softTex(32, 32), color: '#ffb060', transparent: true, opacity: 0.5, depthWrite: false })); forgeGlow.position.set(0.22, 0.75, 0.7); forgeGlow.scale.set(1.5, 1.2, 1); g.add(forgeGlow);
   forgeG = g;
-  anvilRing = new T.Mesh(new T.RingGeometry(0.45, 0.6, 28), ringMat); anvilRing.rotation.x = -Math.PI / 2; anvilRing.position.set(ANVIL_RING.x, 0.035, ANVIL_RING.z); sc.add(anvilRing);
+  anvilRing = ropeRing(0.45, 0.6); anvilRing.rotation.x = -Math.PI / 2; anvilRing.position.set(ANVIL_RING.x, 0.035, ANVIL_RING.z); sc.add(anvilRing);
   if (anim) { g.scale.setScalar(0.01); bldPop = { g, t: 0 }; burst(FORGE.x, 1.2, FORGE.z, 12); burst(ANVIL.x, 0.9, ANVIL.z, 6); }
 }
 

diff --git a/butik.html b/butik.html
@@ -482,7 +482,7 @@ html body.dressing > div#boot#boot { visibility: visible !important; }
     <button type="button" class="wardDone" id="wardDone" aria-label="Done"><svg viewBox="0 0 48 48" aria-hidden="true"><path d="M11 25 L20 34 L37 14" fill="none" stroke="#fff6e4" stroke-width="6" stroke-linecap="round" stroke-linejoin="round"/></svg></button>
   </div>
 </div>
-<meta name="app-ver" content="20261125141418">
+<meta name="app-ver" content="20261125144249">
 <div class="nogl" id="nogl" hidden>This game needs a browser with 3D graphics turned on.</div>
 <script>(function(){var h=location.hostname;if(/github\.io$/.test(h)||h==="localhost"||h==="127.0.0.1"){document.getElementById("homeBtn").hidden=false;}})();</script>
 <script>(function(){var h=location.hostname;if(!(/github\.io$/.test(h)||h==="localhost"||h==="127.0.0.1"))return;

diff --git a/src/isle/bakery.js b/src/isle/bakery.js
@@ -77,7 +77,7 @@ function ovenBuild(anim) {
   /* finished pies wait on the front of the base and on the shelf (up to five shown) */
   [[-0.32, 0.51, 0.42], [0.32, 0.51, 0.42], [-1.08, 0.64, 0.15], [-0.84, 0.64, 0.15], [0.0, 0.51, 0.47]].forEach(([x, y, z]) => { const m = new T.Mesh(PIE_GEO, MAT); m.position.set(x, y, z); m.visible = false; g.add(m); ovenPies.push(m); });
   ovenG = g;
-  ovenRing = new T.Mesh(new T.RingGeometry(0.45, 0.6, 28), ringMat); ovenRing.rotation.x = -Math.PI / 2; ovenRing.position.set(OVEN_RING.x, 0.035, OVEN_RING.z); sc.add(ovenRing);
+  ovenRing = ropeRing(0.45, 0.6); ovenRing.rotation.x = -Math.PI / 2; ovenRing.position.set(OVEN_RING.x, 0.035, OVEN_RING.z); sc.add(ovenRing);
   if (anim) { g.scale.setScalar(0.01); bldPop = { g, t: 0 }; burst(OVEN.x, 1.2, OVEN.z, 12); }
 }
 
